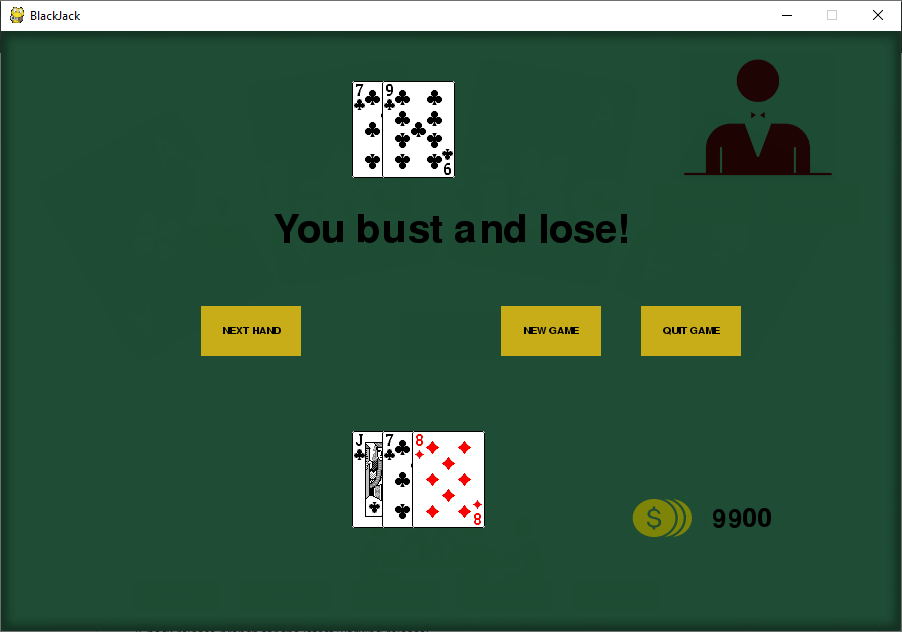
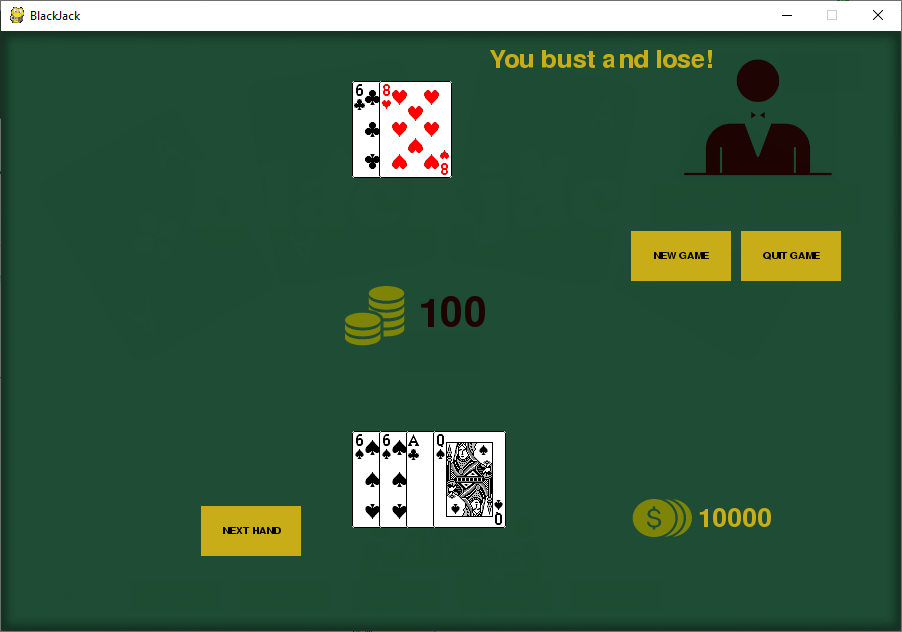
I sort of fixed the issue with not subtracting a bet at the beginning of the hand. I discovered some issue where I fucked up whatever with getting blackjack though. I need to comb over the Table - Blackjack_controller - player - runner modules and do more separation of concerns.

diff --git a/src/View/table.py b/src/View/table.py
@@ -31,8 +31,9 @@ class Table:
         self.hand_decisions_loop = True
         self.post_hand_decisions_loop = True
         self.result_msg = ""
-        self.balance = str(self.control.get_players_balance())
-        self.ante = str(self.control.get_players_bet())
+        self.balance = self.control.get_players_balance()
+        self.ante = self.control.get_players_bet()
+        self.pay_ante = False
 
     def check_quit_game(self, event):
         if event.type == pygame.QUIT:
@@ -49,9 +50,14 @@ class Table:
 
         # config.game_display.fill(config.board_color)
         config.game_display.blit(config.table_background, [0, 0])
-        show_dealers_hand(self.control)
-        self.show_balance(str(self.control.get_players_balance()))
-        self.show_bet(str(self.control.get_players_bet()))
+        # show_dealers_hand(self.control)
+        # self.control.subtract_players_ante()
+        if not self.pay_ante:
+            self.control.subtract_players_ante()
+            self.pay_ante = True
+            self.display_balance_and_bet()
+        else:
+            self.display_balance_and_bet()
         # self.show_players_hand()
 
         while self.hand_decisions_loop:
@@ -125,6 +131,7 @@ class Table:
             display_quit_button = BlackjackQuitButton()
             display_quit_button.intro_button()
 
+            show_dealers_hand(self.control)
             show_players_hand(self.control)
             if self.control.starting_blackjack:
                 self.result_msg = "Blackjack! You Win!"
@@ -140,7 +147,9 @@ class Table:
         """The players hand is over"""
         logger.info("[table: end_of_hand()] starting the end_of_hand() methods")
         config.game_display.blit(config.table_background, [0, 0])
-        self.show_balance(str(self.control.get_players_balance()))
+        self.pay_ante = False
+        self.display_balance_and_bet()
+
         show_dealers_hand(self.control)
         show_players_hand(self.control)
         self.show_results(self.result_msg)
@@ -180,6 +189,9 @@ class Table:
             config.clock.tick(30)
         # Reset loop
         self.post_hand_decisions_loop = True
+
+    def subtract_ante(self):
+        self.balance - self.ante
 
     @staticmethod
     def gold_text_objects(text, font):
@@ -279,3 +291,8 @@ class Table:
 
         config.game_display.blit(text_surf, text_rect)
         pygame.display.update()
+
+    def display_balance_and_bet(self):
+        self.show_balance(str(self.control.get_players_balance()))
+        self.show_bet(str(self.control.get_players_bet()))
+

diff --git a/src/Control/blackjack_controller.py b/src/Control/blackjack_controller.py
@@ -64,6 +64,9 @@ class BlackjackController(object):
             self.starting_blackjack = True
         logger.info("Player Doesn't have Blackjack")
 
+    def subtract_players_ante(self):
+        self.current_player.subtract_ante()
+
     def get_players_balance(self):
         return self.current_player.get_balance()
 
@@ -136,15 +139,15 @@ class BlackjackController(object):
                 return "You lose!"
             elif player_score == dealer_score:
                 if (
-                    self.current_player.has_blackjack()
-                    and not self.current_dealer.has_blackjack()
+                        self.current_player.has_blackjack()
+                        and not self.current_dealer.has_blackjack()
                 ):
                     self.win = True
                     self.current_player.update_balance(self.bet_amount, self.win)
                     return "BlackJack! You Win!"
                 elif (
-                    not self.current_player.has_blackjack()
-                    and self.current_dealer.has_blackjack()
+                        not self.current_player.has_blackjack()
+                        and self.current_dealer.has_blackjack()
                 ):
                     self.win = False
                     self.current_player.update_balance(self.bet_amount, self.win)

diff --git a/src/Control/player.py b/src/Control/player.py
@@ -34,6 +34,9 @@ class BlackjackPlayer(Player):
     def get_balance(self):
         return self.balance
 
+    def subtract_ante(self):
+        self.balance = self.balance - self.bet
+
     def update_balance(self, bet_amount, win):
         """
         Args:
@@ -41,9 +44,9 @@ class BlackjackPlayer(Player):
             win:
         """
         if win:
-            self.balance = self.balance + bet_amount
-        else:
-            self.balance = self.balance - bet_amount
+            self.balance = self.balance + bet_amount * 2
+        # else:
+            # self.balance = self.balance - bet_amount
 
     def get_score(self) -> int:
         score = 0

diff --git a/src/runner.py b/src/runner.py
@@ -57,6 +57,7 @@ class ControlView:
             #  A player_hand_loop() is really a game loop? The debug message occurs
             #  Each time a new hand is initiated.
             logger.debug("Main: meta_loop() calling Table player_hand_loop() method...")
+            self.new_table.subtract_ante()
             self.new_table.player_hand_loop()
             logger.debug("Main: meta_loop() checking if \"NEW GAME\" or \"EXIT GAME\" pressed...")
             if config.new_game:
